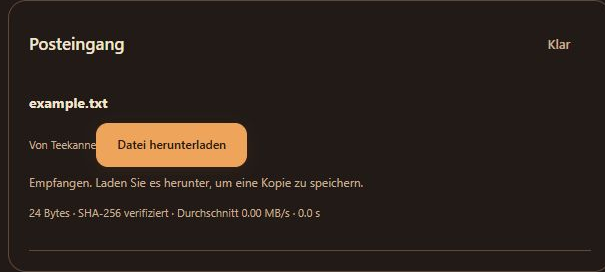
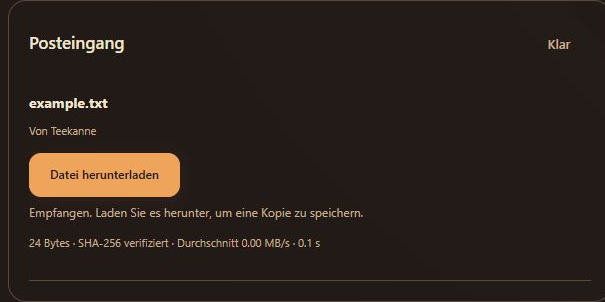
Publish prominent inbox and localized receipt guides

diff --git a/how-to-use.html b/how-to-use.html
@@ -1,9 +1,9 @@
 <!doctype html>
-<html lang="zh-CN"><head><meta charset="UTF-8"><meta name="viewport" content="width=device-width, initial-scale=1"><meta name="referrer" content="no-referrer"><title>热热传使用说明</title><meta name="description" content="用配对码或二维码连接设备，选择文件接收方，发送文字并保存文件。"><link rel="canonical" href="https://rerechuan.com/how-to-use.html"><link rel="icon" href="./rere-symbol.svg"><link rel="stylesheet" href="./site-pages.css"><script type="module" src="./static-i18n.js?v=feedback1"></script></head><body><header class="site-header"><a href="./" aria-label="热热传首页"><img src="./rere-logo-dark.svg" alt="热热传" width="147" height="48"></a><a class="back" href="./">返回传文件</a></header><main><article><h1>使用说明</h1>
+<html lang="zh-CN"><head><meta charset="UTF-8"><meta name="viewport" content="width=device-width, initial-scale=1"><meta name="referrer" content="no-referrer"><title>热热传使用说明</title><meta name="description" content="用配对码或二维码连接设备，选择文件接收方，发送文字并保存文件。"><link rel="canonical" href="https://rerechuan.com/how-to-use.html"><link rel="icon" href="./rere-symbol.svg"><link rel="stylesheet" href="./site-pages.css"><script type="module" src="./static-i18n.js?v=inbox1"></script></head><body><header class="site-header"><a href="./" aria-label="热热传首页"><img src="./rere-logo-dark.svg" alt="热热传" width="147" height="48"></a><a class="back" href="./">返回传文件</a></header><main><article><h1>使用说明</h1>
 <p class="lead">两台设备连接同一网络，打开热热传。传输时保持双方页面打开。</p>
-<h2>1. 创建房间，连接另一台设备</h2><p>在任意一台设备上点击“创建房间”。另一台设备打开热热传，输入 6 位配对码；手机也可以扫描房间二维码。等待设备列表显示“已直连”。一个房间最多 6 台设备，可以点击“改名”区分设备。</p><figure><img src="./help/pair.png?v=feedback1" alt="创建房间后显示六位配对码、设备名称和手机扫码入口" width="1120" height="389" loading="lazy"><figcaption>示意界面：每个房间的配对码不同。</figcaption></figure>
-<h2>2. 选好设备，放入文件</h2><p>在“文件发给”中勾选接收设备，把文件拖进窗口，或点击“选择文件”。文件选好后自动发送，无需再点确认；尚未连接时会等待连接。可以选择多个接收设备；未勾选的设备不会收到该文件。页面会显示进度和 MB/s，准备校验耗时单独计算。</p><figure><img src="./help/send.png?v=feedback1" alt="勾选接收设备后，拖入或选择文件即自动发送" width="605" height="784" loading="lazy"><figcaption>文件只发给勾选的设备。</figcaption></figure>
-<h2>3. 在收件箱保存</h2><p>接收端自动接收并校验文件，不需要再确认。完成后点击“下载文件”，按浏览器提示保存。需要清理临时副本时点击收件箱“清空”；已经下载的文件不受影响。</p><figure><img src="./help/receive.png?v=feedback1" alt="接收端收件箱显示文件名、发送设备、下载文件按钮和校验结果" width="588" height="273" loading="lazy"><figcaption>接收完成后，仍需点击下载保存到设备。</figcaption></figure>
+<h2>1. 创建房间，连接另一台设备</h2><p>在任意一台设备上点击“创建房间”。另一台设备打开热热传，输入 6 位配对码；手机也可以扫描房间二维码。等待设备列表显示“已直连”。一个房间最多 6 台设备，可以点击“改名”区分设备。</p><figure><img src="./help/pair.png?v=inbox1" alt="创建房间后显示六位配对码、设备名称和手机扫码入口" width="1120" height="389" loading="lazy"><figcaption>示意界面：每个房间的配对码不同。</figcaption></figure>
+<h2>2. 选好设备，放入文件</h2><p>在“文件发给”中勾选接收设备，把文件拖进窗口，或点击“选择文件”。文件选好后自动发送，无需再点确认；尚未连接时会等待连接。可以选择多个接收设备；未勾选的设备不会收到该文件。页面会显示进度和 MB/s，准备校验耗时单独计算。</p><figure><img src="./help/send.png?v=inbox1" alt="勾选接收设备后，拖入或选择文件即自动发送" width="605" height="784" loading="lazy"><figcaption>文件只发给勾选的设备。</figcaption></figure>
+<h2>3. 在收件箱保存</h2><p>接收端自动接收并校验文件，不需要再确认。完成后点击“下载文件”，按浏览器提示保存。需要清理临时副本时点击收件箱“清空”；已经下载的文件不受影响。</p><figure><img src="./help/receive.png?v=inbox1" alt="接收端收件箱显示文件名、发送设备、下载文件按钮和校验结果" width="588" height="273" loading="lazy"><figcaption>接收完成后，仍需点击下载保存到设备。</figcaption></figure>
 <h2>文字、链接和代码</h2><p>在“聊两句”中输入内容后点击“发送”。电脑上 Enter 发送，Shift+Enter 换行。文字发给房间内所有已连接的设备，文件传输时也能聊天。聊天记录仅保留在当前页面。</p>
 <h2>三个常见用法</h2><ul><li><strong>Windows 和 Mac 互传资料：</strong>输入配对码连接，勾选对方设备，把文档或压缩包发过去。</li><li><strong>手机照片传到电脑：</strong>手机扫码加入房间，选择照片，电脑收到后下载保存。部分网络下 Windows 与 iPhone 可能无法直连。</li><li><strong>几台设备共用一条链接：</strong>把链接发到聊天区，房间里的设备都能收到；文件仍可单独指定接收方。</li></ul>
 <h2>连接与传输问题</h2><dl><dt>必须连接同一个 Wi-Fi 吗？</dt><dd>设备应连接同一局域网，电脑可以接网线、手机连该路由器的 Wi-Fi。访客网络或设备隔离可能阻止直连。网页与配对服务需要联网。</dd><dt>手机扫码后打不开或一直连接中？</dt><dd>可以在 Safari、Chrome 等独立浏览器中打开，再输入配对码。微信内置浏览器可能限制连接；网站不能保证自动跳转到系统默认浏览器。部分 Windows 与 iPhone 组合的兼容问题仍待优化。</dd><dt>为什么实际速度不同？</dt><dd>速度受两台设备之间的网络、浏览器、磁盘和同时接收的设备数影响。MB/s 是每秒百万字节；准备校验不计入传输速度，不代表 Wi-Fi 或网卡的标称速率。</dd><dt>支持多大的文件？</dt><dd>支持临时磁盘存储的浏览器单文件上限为 2 GiB；只能使用页面内存时为 32 MiB。以页面显示的接收能力为准。每次最多选择 20 个文件。</dd><dt>断线、刷新或关掉页面会怎样？</dt><dd>同一页面短暂断线可以尝试续传。刷新可恢复未过期的房间连接，但正在传的文件需要重发。请不要在传输时让设备休眠或关闭页面。房间有效期 30 分钟，配对码有效期 5 分钟。</dd></dl>

diff --git a/workspace.js b/workspace.js
@@ -1,17 +1,17 @@
-import {UsageReporter} from './usage.js?v=feedback1';
-import {drawQR} from './vendor/reference/qr.js?v=feedback1';
-import {t,initPage,getLanguage} from './i18n.js?v=feedback1';
+import {UsageReporter} from './usage.js?v=inbox1';
+import {drawQR} from './vendor/reference/qr.js?v=inbox1';
+import {t,initPage,getLanguage} from './i18n.js?v=inbox1';
 // Codex / 2026-10-25. Local controller. File/text bytes use the DataChannel only.
-import { TransferSession, MAX_FILE } from './transfer.js?v=feedback1';
-import { TransferRate, formatRate } from './transfer-rate.js?v=feedback1';
-import { ReceiverStore } from './receiver-store.js?v=feedback1';
-import { RoomLink, CONNECTION_BUILD } from './room-link.js?v=feedback1';
-import { GroupLink } from './group-link.js?v=feedback1';
-import { RoomTransfers } from './room-transfers.js?v=feedback1';
-import { createTransferMark } from './transfer-mark.js?v=feedback1';
-import { apiURL, inviteURL, readInvite } from './app-config.js?v=feedback1';
-import { deviceLabel, DeviceProfile } from './device-profile.js?v=feedback1';
-import { RoomChat } from './room-chat.js?v=feedback1';
+import { TransferSession, MAX_FILE } from './transfer.js?v=inbox1';
+import { TransferRate, formatRate } from './transfer-rate.js?v=inbox1';
+import { ReceiverStore } from './receiver-store.js?v=inbox1';
+import { RoomLink, CONNECTION_BUILD } from './room-link.js?v=inbox1';
+import { GroupLink } from './group-link.js?v=inbox1';
+import { RoomTransfers } from './room-transfers.js?v=inbox1';
+import { createTransferMark } from './transfer-mark.js?v=inbox1';
+import { apiURL, inviteURL, readInvite } from './app-config.js?v=inbox1';
+import { deviceLabel, DeviceProfile } from './device-profile.js?v=inbox1';
+import { RoomChat } from './room-chat.js?v=inbox1';
 initPage();
 const $ = selector => document.querySelector(selector);
 // Internal tools are opt-in; ordinary invitations never carry this flag.
@@ -192,10 +192,25 @@ $('#send-text').addEventListener('click', () => {
 });
 $('#cancel-send').addEventListener('click', () => { state.stopQueue = true; state.session?.cancel(); });
 function inboxNode(id) { return document.getElementById('received-' + id); }
+const inboxPane = $('.inbox-pane'), fileNotice = $('#file-unread');
+function notifyInbox(message) {
+  const rect = inboxPane.getBoundingClientRect();
+  fileNotice.textContent = message;
+  fileNotice.hidden = rect.top >= 0 && rect.top < window.innerHeight - 80;
+}
+fileNotice.addEventListener('click', () => {
+  inboxPane.scrollIntoView({ behavior: window.matchMedia('(prefers-reduced-motion: reduce)').matches ? 'auto' : 'smooth', block: 'start' });
+  $('#inbox-list').scrollTop = 0;
+  $('#inbox-heading').focus({ preventScroll: true });
+  fileNotice.hidden = true;
+});
+new IntersectionObserver(entries => {
+  if (entries.some(entry => entry.isIntersecting && entry.intersectionRect.height >= 80)) fileNotice.hidden = true;
+}, { threshold: [0, .25, .5, 1] }).observe(inboxPane);
 function newInboxItem(id) { $('#inbox-empty').hidden = true; const item = document.createElement('article'); item.id = 'received-' + id; item.className = 'received-item'; $('#inbox-list').prepend(item); $('#clear-inbox').hidden = false; return item; }
 function onOffer(meta, receivingSession = state.session, peer) {
   if (meta.kind === 'text') return;
-  if ($('#file-panel').hidden) { $('#file-unread').hidden = false; $('#file-unread').textContent = t('正在接收文件 · 查看收件箱'); }
+  notifyInbox(t('正在接收文件 · 查看收件箱'));
   const session = receivingSession, item = newInboxItem(meta.id);
   item.append(textElement('h3', meta.name), textElement('p', formatBytes(meta.size) + t(' · 正在自动接收…')), ...(peer ? [textElement('span', t('来自 ') + peer.label, 'receipt')] : []));
   const stop = textElement('button', t('停止接收'), 'quiet stop-receive');
@@ -211,7 +226,7 @@ function onReceived(result) {
     capacity(); return;
   }
   transferMark.reset(); const item = inboxNode(result.id) || newInboxItem(result.id); item.replaceChildren();
-  if ($('#file-panel').hidden) { $('#file-unread').hidden = false; $('#file-unread').textContent = t('收到文件 · 查看收件箱'); }
+  notifyInbox(t('收到文件 · 查看收件箱'));
   item.append(textElement('h3', result.kind === 'text' ? t('文字与代码') : result.name));
   if (result.sender) item.append(textElement('span', t('来自 ') + result.sender, 'receipt'));
   if (result.kind === 'file') {
@@ -233,7 +248,7 @@ async function clearInbox() {
   try {
     for (const url of state.urls.values()) URL.revokeObjectURL(url); state.urls.clear();
     await store.clear(); state.session?.receipts.clear();
-    $('#inbox-list').replaceChildren(); $('#inbox-empty').hidden = false; $('#clear-inbox').hidden = true; capacity();
+    $('#inbox-list').replaceChildren(); $('#inbox-empty').hidden = false; $('#clear-inbox').hidden = true; fileNotice.hidden = true; capacity();
   } catch (e) { error(t('临时存储清理失败：') + e.message); }
   finally { $('#clear-inbox').disabled = false; }
 }

diff --git a/index.html b/index.html
@@ -6,7 +6,7 @@
   <meta name="referrer" content="no-referrer"><meta charset="UTF-8"><meta name="viewport" content="width=device-width, initial-scale=1">
   <meta name="description" content="热热传：同一网络下，打开网页即可互传文件和文字。无需安装或注册，支持多设备配对。">
   <title>热热传 · 局域网文件互传</title><link rel="canonical" href="https://rerechuan.com/"><link rel="icon" href="./rere-symbol.svg">
-  <link rel="stylesheet" href="./workspace.css"><link rel="stylesheet" href="./ember.css"><link rel="stylesheet" href="./workspace-v8.css?v=20261029-feedback1"><script type="module" src="./workspace.js?v=0.8.1-feedback1"></script>
+  <link rel="stylesheet" href="./workspace.css"><link rel="stylesheet" href="./ember.css"><link rel="stylesheet" href="./workspace-v8.css?v=20261029-inbox1"><script type="module" src="./workspace.js?v=0.8.1-inbox1"></script>
 </head>
 <body data-theme="ember">
   <svg class="icon-definitions" aria-hidden="true" xmlns="http://www.w3.org/2000/svg"><defs>
@@ -34,8 +34,9 @@
       </section>
       <p id="compatibility-note" class="prototype-note">部分网络环境下，Windows 与 iPhone 可能无法直连，兼容性待后续优化。</p>
       <p id="room-error" class="error-line" role="alert" hidden></p>
-      <div class="connection-extra"><span id="connection-detail" role="status"></span><div><button id="chat-unread" class="quiet" hidden></button><button id="file-unread" class="quiet" hidden>收到文件 · 查看收件箱</button></div></div>
+      <div class="connection-extra"><span id="connection-detail" role="status"></span><div><button id="chat-unread" class="quiet" hidden></button><button id="file-unread" class="quiet" aria-live="polite" aria-controls="inbox-list" hidden>收到文件 · 查看收件箱</button></div></div>
       <div class="workspace">
+        <section class="inbox-pane" aria-labelledby="inbox-heading"><div class="inbox-header"><h2 id="inbox-heading" tabindex="-1"><svg class="small-icon" aria-hidden="true"><use href="#icon-inbox"/></svg>收件箱</h2><button id="clear-inbox" class="quiet" hidden>清空</button></div><div id="inbox-empty" class="inbox-empty"><svg aria-hidden="true"><use href="#icon-inbox"/></svg><p>还没有收到文件</p></div><div id="inbox-list" class="inbox-list" aria-live="polite"></div></section>
         <section class="send-pane" aria-label="发送内容">
           <div class="section-heading"><h2>传文件</h2><span>只发给你选的设备</span></div>
           <div id="file-panel" class="panel-body"><section id="devices-panel" class="devices-panel" aria-label="房间中的设备" hidden><div class="devices-heading"><strong>文件发给</strong><span id="device-count"></span></div><div id="device-list" class="device-list"></div></section>
@@ -50,7 +51,7 @@
             <div class="chat-compose"><label for="text-draft" class="sr-only">消息内容</label><textarea id="text-draft" maxlength="20000" placeholder="输入消息、链接或代码" spellcheck="false" rows="2"></textarea><button id="send-text" class="primary" aria-describedby="text-send-hint" disabled>发送</button></div>
             <div class="chat-compose-meta"><p id="text-send-hint" class="send-hint" role="status"></p><div><span id="text-count">0 / 20,000</span><button id="clear-text" class="quiet">清空输入</button></div></div>
           </div>
-        <section class="inbox-pane" aria-labelledby="inbox-heading"><div class="inbox-header"><h2 id="inbox-heading"><svg class="small-icon" aria-hidden="true"><use href="#icon-inbox"/></svg>收件箱</h2><button id="clear-inbox" class="quiet" hidden>清空</button></div><div id="inbox-empty" class="inbox-empty"><svg aria-hidden="true"><use href="#icon-inbox"/></svg><p>还没有收到文件</p></div><div id="inbox-list" class="inbox-list" aria-live="polite"></div></section>
+
       </div>
       <p id="capacity-note" class="prototype-note" role="status">正在检测接收能力…</p><p class="prototype-note">只与信任的设备配对。传输时保持页面打开。</p>
     </main>

diff --git a/privacy.html b/privacy.html
@@ -1,5 +1,5 @@
 <!doctype html>
-<html lang="zh-CN"><head><meta charset="UTF-8"><meta name="viewport" content="width=device-width, initial-scale=1"><meta name="referrer" content="no-referrer"><title>热热传隐私政策</title><meta name="description" content="了解文件直连、房间信息、本地存储、Cookie、广告和第三方服务的数据处理方式。"><link rel="canonical" href="https://rerechuan.com/privacy.html"><link rel="icon" href="./rere-symbol.svg"><link rel="stylesheet" href="./site-pages.css"><script type="module" src="./static-i18n.js?v=feedback1"></script></head><body><header class="site-header"><a href="./" aria-label="热热传首页"><img src="./rere-logo-dark.svg" alt="热热传" width="147" height="48"></a><a class="back" href="./">返回传文件</a></header><main><article><h1>隐私政策</h1>
+<html lang="zh-CN"><head><meta charset="UTF-8"><meta name="viewport" content="width=device-width, initial-scale=1"><meta name="referrer" content="no-referrer"><title>热热传隐私政策</title><meta name="description" content="了解文件直连、房间信息、本地存储、Cookie、广告和第三方服务的数据处理方式。"><link rel="canonical" href="https://rerechuan.com/privacy.html"><link rel="icon" href="./rere-symbol.svg"><link rel="stylesheet" href="./site-pages.css"><script type="module" src="./static-i18n.js?v=inbox1"></script></head><body><header class="site-header"><a href="./" aria-label="热热传首页"><img src="./rere-logo-dark.svg" alt="热热传" width="147" height="48"></a><a class="back" href="./">返回传文件</a></header><main><article><h1>隐私政策</h1>
 <p class="lead">文件不上传服务器。配对服务处理连接信息，不保存你的文件或聊天正文。</p><p class="updated">更新日期：2026 年 10 月 31 日 · 适用于热热传当前网页版</p>
 <h2>1. 文件和聊天</h2><p>你选择的文件由浏览器在设备上读取，经过校验后直传给选中的设备。文件不上传服务器；读取、校验和接收存储在浏览器本地完成。本站不提供文件云备份。发送文件不会修改原文件。</p><p>文件名、大小、校验值和文件内容会发送给选中的接收设备。聊天正文会发送给房间内所有已连接的设备，必要时由房间里的其他设备转送，不经云端转发。请只与信任的设备配对，不要公开分享房间链接或配对码。</p>
 <h2>2. 配对和网络服务</h2><p>网页由 GitHub Pages 托管；Cloudflare 提供房间配对、连接协商和网络地址探测服务。它们需要处理网页请求、IP 地址和连接信息。创建或加入房间时，配对服务还会处理房间标识、设备名称、设备类型和用于重新加入的凭据。房间内设备可以看到彼此的名称、类型和连接状态；建立直连会向对方交换网络候选地址。</p><p>这些信息用于连接设备和限制异常请求，不用于建立广告画像。配对信息与文件内容是两类不同的数据；“文件不上传服务器”不表示打开网页或建立连接完全不联网。</p>

diff --git a/workspace-v8.css b/workspace-v8.css
@@ -56,3 +56,23 @@ body .inbox-header,body[data-theme=ember] .inbox-header{padding:0 0 10px;min-hei
 .header-actions{display:flex;align-items:center;justify-content:flex-end;gap:14px;margin-left:auto;flex-wrap:wrap}.header-actions .language-control{margin-left:0;font-size:12px;gap:8px}.header-actions .site-help{display:inline-flex;align-items:center;justify-content:center;margin:0;min-height:42px;padding:9px 16px;border:1px solid var(--accent);border-radius:10px;background:var(--soft,var(--surface));color:var(--accent);font-size:14px;font-weight:650;text-decoration:none;white-space:nowrap}.header-actions .site-help:hover{background:var(--accent);color:var(--accent-ink,#251c16)}body .topbar,body[data-theme=ember] .topbar{height:auto;min-height:94px;padding-top:16px;padding-bottom:16px;gap:14px}@media(max-width:760px){body .topbar,body[data-theme=ember] .topbar{min-height:74px;padding-top:12px;padding-bottom:12px}.header-actions{gap:10px}.header-actions .site-help{font-size:13px;padding:8px 12px}.header-actions .language-control{font-size:12px;gap:6px}}
 
 .header-actions .site-feedback{font-size:13px;color:var(--muted);text-underline-offset:4px;white-space:nowrap;padding:8px 0}
+
+/* Incoming files stay above the send area. Empty inbox takes one compact row. */
+body .inbox-pane,body[data-theme=ember] .inbox-pane{grid-row:1;min-height:0;scroll-margin-top:18px}
+body .send-pane,body[data-theme=ember] .send-pane{grid-row:2}
+body .inbox-empty,body[data-theme=ember] .inbox-empty{min-height:0;padding:4px 0 0;display:block;text-align:left}
+body .inbox-empty[hidden]{display:none}
+body .inbox-empty>svg{display:none}
+body .inbox-empty>p{margin:0;font-size:12px}
+body .inbox-list,body[data-theme=ember] .inbox-list{max-height:300px;overscroll-behavior:contain}
+body .received-item{padding:14px 0}
+body .received-item>.receipt{display:block;margin:6px 0 12px}
+body #file-unread{position:fixed;right:22px;bottom:calc(22px + env(safe-area-inset-bottom));z-index:80;max-width:calc(100vw - 36px);padding:12px 18px;min-height:46px;background:var(--accent);color:var(--accent-ink,#251c16);border:1px solid var(--accent);border-radius:12px;box-shadow:0 8px 28px #0004;white-space:normal;text-align:left}
+body #file-unread[hidden]{display:none}
+@media(max-width:760px){
+ body .inbox-pane,body[data-theme=ember] .inbox-pane{grid-row:1;padding:16px 18px}
+ body #text-panel{grid-row:2}
+ body .send-pane,body[data-theme=ember] .send-pane{grid-row:3}
+ body .inbox-list,body[data-theme=ember] .inbox-list{max-height:260px}
+}
+@media(prefers-reduced-motion:reduce){html{scroll-behavior:auto}}

diff --git a/about.html b/about.html
@@ -1,5 +1,5 @@
 <!doctype html>
-<html lang="zh-CN"><head><meta charset="UTF-8"><meta name="viewport" content="width=device-width, initial-scale=1"><meta name="referrer" content="no-referrer"><title>关于热热传</title><meta name="description" content="了解热热传的用途、作者和免费使用方式。"><link rel="canonical" href="https://rerechuan.com/about.html"><link rel="icon" href="./rere-symbol.svg"><link rel="stylesheet" href="./site-pages.css"><script type="module" src="./static-i18n.js?v=feedback1"></script></head><body><header class="site-header"><a href="./" aria-label="热热传首页"><img src="./rere-logo-dark.svg" alt="热热传" width="147" height="48"></a><a class="back" href="./">返回传文件</a></header><main><article><h1>关于热热传</h1>
+<html lang="zh-CN"><head><meta charset="UTF-8"><meta name="viewport" content="width=device-width, initial-scale=1"><meta name="referrer" content="no-referrer"><title>关于热热传</title><meta name="description" content="了解热热传的用途、作者和免费使用方式。"><link rel="canonical" href="https://rerechuan.com/about.html"><link rel="icon" href="./rere-symbol.svg"><link rel="stylesheet" href="./site-pages.css"><script type="module" src="./static-i18n.js?v=inbox1"></script></head><body><header class="site-header"><a href="./" aria-label="热热传首页"><img src="./rere-logo-dark.svg" alt="热热传" width="147" height="48"></a><a class="back" href="./">返回传文件</a></header><main><article><h1>关于热热传</h1>
 <p class="lead">同一网络下，打开网页就能互传文件和文字。</p>
 <h2>用来做什么</h2><p>热热传是 Foster Fei 开发和维护的网页工具。电脑、手机都可以通过配对码或二维码加入房间，无需安装客户端或注册账号。一个房间最多 6 台设备。</p>
 <p>文件发给你选中的设备；文字、链接和代码发给房间内所有已连接的设备。收到的文件保留原始内容，下载时由你选择保存位置。</p>

diff --git a/contact.html b/contact.html
@@ -1,5 +1,5 @@
 <!doctype html>
-<html lang="zh-CN"><head><meta charset="UTF-8"><meta name="viewport" content="width=device-width, initial-scale=1"><meta name="referrer" content="no-referrer"><title>联系热热传</title><meta name="description" content="联系热热传作者，反馈连接、传输、隐私或权利问题。"><link rel="canonical" href="https://rerechuan.com/contact.html"><link rel="icon" href="./rere-symbol.svg"><link rel="stylesheet" href="./site-pages.css"><script type="module" src="./feedback.js?v=feedback1"></script></head><body><header class="site-header"><a href="./" aria-label="热热传首页"><img src="./rere-logo-dark.svg" alt="热热传" width="147" height="48"></a><a class="back" href="./">返回传文件</a></header><main><article><h1>反馈问题</h1>
+<html lang="zh-CN"><head><meta charset="UTF-8"><meta name="viewport" content="width=device-width, initial-scale=1"><meta name="referrer" content="no-referrer"><title>联系热热传</title><meta name="description" content="联系热热传作者，反馈连接、传输、隐私或权利问题。"><link rel="canonical" href="https://rerechuan.com/contact.html"><link rel="icon" href="./rere-symbol.svg"><link rel="stylesheet" href="./site-pages.css"><script type="module" src="./feedback.js?v=inbox1"></script></head><body><header class="site-header"><a href="./" aria-label="热热传首页"><img src="./rere-logo-dark.svg" alt="热热传" width="147" height="48"></a><a class="back" href="./">返回传文件</a></header><main><article><h1>反馈问题</h1>
 <p>连接不上、传输异常，或有想要的功能，都可以告诉我们。</p>
 <form id="feedback-form">
 <label for="feedback-category">反馈类型</label><select id="feedback-category" name="category"><option>连接问题</option><option>文件传输</option><option>功能建议</option><option>其他问题</option></select>

diff --git a/i18n.js b/i18n.js
@@ -1,7 +1,7 @@
-import i18next from './vendor/i18next/i18next.js?v=feedback1';
-import LanguageDetector from './vendor/i18next/detector.js?v=feedback1';
-import en from './locales-en.js?v=feedback1';
-import {supportedLanguages,loadCatalog,localeCatalogs} from './locales.js?v=feedback1';
+import i18next from './vendor/i18next/i18next.js?v=inbox1';
+import LanguageDetector from './vendor/i18next/detector.js?v=inbox1';
+import en from './locales-en.js?v=inbox1';
+import {supportedLanguages,loadCatalog,localeCatalogs} from './locales.js?v=inbox1';
 export function resolveLanguage({query,saved,languages=[]}={}){
  for(const value of[query,saved,...languages]){if(/^zh-(TW|HK|MO|Hant)(?:-|$)/i.test(value||''))return'zh-TW';if(/^zh(?:-|$)/i.test(value||''))return'zh-CN';const short=String(value||'').toLowerCase().split('-')[0];if(supportedLanguages.some(([code])=>code===short))return short;}return'zh-CN';
 }

diff --git a/locales.js b/locales.js
@@ -1,9 +1,9 @@
-import en from './locales-en.js?v=feedback1';
+import en from './locales-en.js?v=inbox1';
 export const supportedLanguages=[['zh-CN','简体中文'],['zh-TW','繁體中文'],['en','English'],['ja','日本語'],['ko','한국어'],['es','Español'],['fr','Français'],['de','Deutsch'],['pt','Português']];
 export const localeCatalogs={en};
 export async function loadCatalog(language){
  if(language==='zh-CN')return{};
  if(!supportedLanguages.some(([code])=>code===language))throw new Error('Unsupported language');
- if(!localeCatalogs[language])localeCatalogs[language]=(await import('./locales/'+language+'.js?v=feedback1')).default;
+ if(!localeCatalogs[language])localeCatalogs[language]=(await import('./locales/'+language+'.js?v=inbox1')).default;
  return localeCatalogs[language];
 }

diff --git a/vendor/noble/sha2.js b/vendor/noble/sha2.js
@@ -5,9 +5,9 @@
  * {@link https://nvlpubs.nist.gov/nistpubs/FIPS/NIST.FIPS.180-4.pdf | FIPS 180-4}.
  * @module
  */
-import { Chi, HashMD, Maj, SHA224_IV, SHA256_IV, SHA384_IV, SHA512_IV } from "./_md.js?v=feedback1";
-import * as u64 from "./_u64.js?v=feedback1";
-import { clean, createHasher, oidNist, rotr } from "./utils.js?v=feedback1";
+import { Chi, HashMD, Maj, SHA224_IV, SHA256_IV, SHA384_IV, SHA512_IV } from "./_md.js?v=inbox1";
+import * as u64 from "./_u64.js?v=inbox1";
+import { clean, createHasher, oidNist, rotr } from "./utils.js?v=inbox1";
 /**
  * SHA-224 / SHA-256 round constants from RFC 6234 §5.1: the first 32 bits
  * of the cube roots of the first 64 primes (2..311).

diff --git a/transfer.js b/transfer.js
@@ -1,8 +1,8 @@
-import {t} from './i18n.js?v=feedback1';
+import {t} from './i18n.js?v=inbox1';
 // Codex / 2026-10-25. Protocol v2: bounded blocks, ACK, integrity, same-page resume.
-import { createHasher, sha256, hex } from './hash.js?v=feedback1';
-import { randomId } from './id.js?v=feedback1';
-import { ReceiverStore, DISK_FILE } from './receiver-store.js?v=feedback1';
+import { createHasher, sha256, hex } from './hash.js?v=inbox1';
+import { randomId } from './id.js?v=inbox1';
+import { ReceiverStore, DISK_FILE } from './receiver-store.js?v=inbox1';
 export { sha256 };
 export const MAX_FILE = DISK_FILE, MAX_TEXT = 20000, BLOCK = 256 * 1024;
 const CHUNK = 16 * 1024;

diff --git a/group-link.js b/group-link.js
@@ -1,7 +1,7 @@
-import {deviceLabel} from './device-profile.js?v=feedback1';
-import {t} from './i18n.js?v=feedback1';
+import {deviceLabel} from './device-profile.js?v=inbox1';
+import {t} from './i18n.js?v=inbox1';
 // Codex / 2026-10-26. One signaling socket; independent direct links per peer.
-import { RoomLink } from './room-link.js?v=feedback1';
+import { RoomLink } from './room-link.js?v=inbox1';
 class PeerLink extends RoomLink {
   listen() {}
   request(action,method,data){return this.owner.request(action,method,{...data,to:this.target.peerId,fromEpoch:this.owner.epoch,toEpoch:this.target.epoch});}
